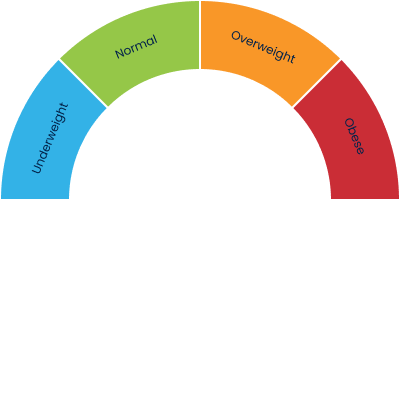
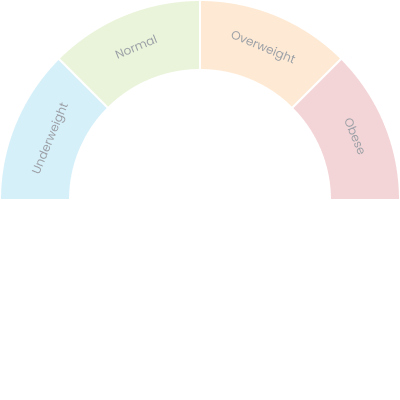
fix: bmi akg calculator indicator

Changed region(s): [[0.0, 0.0, 1.0, 0.51]]

diff --git a/src/pages/BmiAkgCalcPage.jsx b/src/pages/BmiAkgCalcPage.jsx
@@ -9,6 +9,11 @@ const BmiAkgCalculator = () => {
   const [selectedGender, setSelectedGender] = useState(null);
   const [selectedActivity, setSelectedActivity] = useState("");
   const [isOpen, setIsOpen] = useState(false);
+  const [weight, setWeight] = useState();
+  const [height, setHeight] = useState();
+  const [age, setAge] = useState();
+  const [bmi, setBmi] = useState(0);
+  const [bmiCategory, setBmiCategory] = useState("-");
 
   const handleOptionChange = (value) => {
     setSelectedGender(value);
@@ -27,6 +32,42 @@ const BmiAkgCalculator = () => {
     setIsOpen(false);
   };
 
+  const handleCalculate = () => {
+    console.log("Button clicked!");
+    console.log(weight, height);
+    if (weight > 0 && height > 0) {
+      console.log("Msuk");
+      const heightInMeters = height / 100;
+      const bmiValue = weight / (heightInMeters * heightInMeters);
+      setBmi(bmiValue.toFixed(1));
+
+      if (bmiValue < 18.5) {
+        setBmiCategory("Underweight");
+      } else if (bmiValue >= 18.5 && bmiValue < 24.9) {
+        setBmiCategory("Normal");
+      } else if (bmiValue >= 25 && bmiValue < 29.9) {
+        setBmiCategory("Overweight");
+      } else {
+        setBmiCategory("Obese");
+      }
+    }
+  };
+
+  const getBgImageClass = () => {
+    switch (bmiCategory) {
+      case "Underweight":
+        return "bg-bmi-under";
+      case "Normal":
+        return "bg-bmi-normal";
+      case "Overweight":
+        return "bg-bmi-over";
+      case "Obese":
+        return "bg-bmi-obese";
+      default:
+        return "bg-bmi";
+    }
+  };
+
   return (
     <div>
       <header className="bg-gray-200 h-20 flex items-center justify-between px-8">
@@ -34,7 +75,7 @@ const BmiAkgCalculator = () => {
       </header>
       <body>
         <div className="h-44 flex items-center justify-center">
-          <p className="text-c-birdong text-8xl font-kaushan">
+          <p className="text-c-birdong text-7xl font-kaushan">
             Kalkulator BMI & AKG
           </p>
         </div>
@@ -92,7 +133,10 @@ const BmiAkgCalculator = () => {
                 </p>
               </div>
               <div class="flex-none w-1/3 ">
-                <InputNum></InputNum>
+                <InputNum
+                  value={weight}
+                  onChange={(value) => setWeight(value)}
+                ></InputNum>
               </div>
             </div>
             <div className="flex justify-center">
@@ -102,7 +146,10 @@ const BmiAkgCalculator = () => {
                 </p>
               </div>
               <div class="flex-none w-1/3 justify-items-end">
-                <InputNum></InputNum>
+                <InputNum
+                  value={height}
+                  onChange={(value) => setHeight(value)}
+                ></InputNum>
               </div>
             </div>
             <div className="flex justify-center">
@@ -112,7 +159,10 @@ const BmiAkgCalculator = () => {
                 </p>
               </div>
               <div class="flex-auto w-1/3 content-end">
-                <InputNum></InputNum>
+                <InputNum
+                  value={age}
+                  onChange={(value) => setAge(value)}
+                ></InputNum>
               </div>
             </div>
             <div className="space-y-2 mb-16">
@@ -143,13 +193,16 @@ const BmiAkgCalculator = () => {
               </div>
               <div className="h-56"></div>
             </div>
-            <BasicButton text={"Hitung"}></BasicButton>
+            <BasicButton
+              text={"Hitung"}
+              onClick={handleCalculate}
+            ></BasicButton>
           </div>
           <div className="bg-white custom-shadow rounded-[20px] p-6 m-4 w-2/5 gap">
             <p className="text-c-birdong text-5xl text-center font-poppins font-bold">
               Hasil
             </p>
-            <div className="needle-container">
+            <div className={`needle-container ${getBgImageClass()}`}>
               <p className="ind1 text-c-birdong text-xs text-center font-poppins font-normal">
                 18.5
               </p>
@@ -159,18 +212,15 @@ const BmiAkgCalculator = () => {
               <p className="ind3 text-c-birdong text-xs text-center font-poppins font-normal">
                 30.0
               </p>
-              <div className="needle" style={{ "--score": 50 }}>
-                {/* Teks persentase */}
-              </div>
               <div className="result w-28 h-36 space-y-1">
                 <p className="text-c-birdong text-base text-center font-poppins font-bold">
                   BMI
                 </p>
                 <p className="text-c-birdong text-4xl text-center font-poppins font-bold">
-                  24.1
+                  {bmi}
                 </p>
                 <p className="text-c-birdong text-xl text-center font-poppins font-normal">
-                  Normal
+                  {bmiCategory}
                 </p>
               </div>
             </div>

diff --git a/tailwind.config.js b/tailwind.config.js
@@ -24,10 +24,15 @@ module.exports = {
         "makanan-rekom": "url('/src/assets/bg-rekom2.png')",
         "detail-rekom": "url('/src/assets/bg-detailrekom.png')",
         "base-hijau": "url('/src/assets/bg-linear-hijau.png')",
-        "login": "url('/src/assets/bg-login.jpeg')",
-        "register": "url('/src/assets/bg-register.jpeg')",
-        "forgot": "url('/src/assets/bg-forgot.jpeg')",
-        "recover": "url('/src/assets/bg-recover.jpeg')",
+        login: "url('/src/assets/bg-login.jpeg')",
+        register: "url('/src/assets/bg-register.jpeg')",
+        forgot: "url('/src/assets/bg-forgot.jpeg')",
+        recover: "url('/src/assets/bg-recover.jpeg')",
+        bmi: "url('/src//assets/bmi.png')",
+        "bmi-under": "url('/src//assets/bmi-under.png')",
+        "bmi-normal": "url('/src//assets/bmi-normal.png')",
+        "bmi-over": "url('/src//assets/bmi-over.png')",
+        "bmi-obese": "url('/src//assets/bmi-obese.png')",
         // untuk gambar background taruh di sini
       }),
     },

diff --git a/src/components/InputNum.jsx b/src/components/InputNum.jsx
@@ -1,25 +1,20 @@
-import React, { useState } from "react";
+import React from "react";
 import { Add, Remove } from "@mui/icons-material";
 
-function InputNum() {
-  const [value, setValue] = useState("");
-
+function InputNum({ value, onChange }) {
   const handleIncrement = () => {
-    setValue((prevValue) =>
-      prevValue === "" ? 1 : parseInt(prevValue, 10) + 1
-    );
+    const newValue = value === "" ? 1 : parseInt(value, 10) + 1;
+    onChange(newValue);
   };
 
   const handleDecrement = () => {
-    setValue((prevValue) => {
-      const newValue = prevValue === "" ? 0 : parseInt(prevValue, 10) - 1;
-      return newValue < 0 ? 0 : newValue;
-    });
+    const newValue = value === "" ? 0 : parseInt(value, 10) - 1;
+    onChange(newValue);
   };
 
   const handleChange = (e) => {
-    const value = e.target.value;
-    setValue(value === "" ? "" : Math.max(0, parseInt(value, 10)));
+    const newValue = e.target.value;
+    onChange(newValue);
   };
 
   return (

diff --git a/src/index.css b/src/index.css
@@ -23,32 +23,8 @@ input[type="number"]::-webkit-inner-spin-button {
   height: 400px;
   border-radius: 50%;
   margin: 20px auto;
-  background-image: url("assets/bmi.png");
   background-size: 100%;
   position: relative;
-  .needle {
-    position: absolute;
-    width: 310px;
-    height: 310px;
-    padding: 150px;
-    left: 11.5%;
-    top: 11%;
-    border-radius: 50%;
-    background: conic-gradient(
-          from 150deg at 50% 50%,
-          #fff 61deg,
-          blue 3deg 7deg,
-          #ccc 8deg 10deg,
-          rgba(0, 255, 0, 0) 0%
-        )
-        0 -155px no-repeat,
-      radial-gradient(pink 0 50%, #ccc 50%) content-box;
-    rotate: calc(cos(var(--score) * 1.8deg) * -90deg);
-    display: flex;
-    justify-content: center;
-    align-items: center;
-    z-index: 1;
-  }
 }
 
 .result {

diff --git a/src/components/BasicButton.jsx b/src/components/BasicButton.jsx
@@ -9,6 +9,7 @@ function BasicButton({ text, onClick }) {
 
   return (
     <button
+      type="submit"
       onClick={onClick}
       className="py-2 px-4 text-white font-poppins text-xl font-semibold w-full h-16"
       style={buttonStyle}
